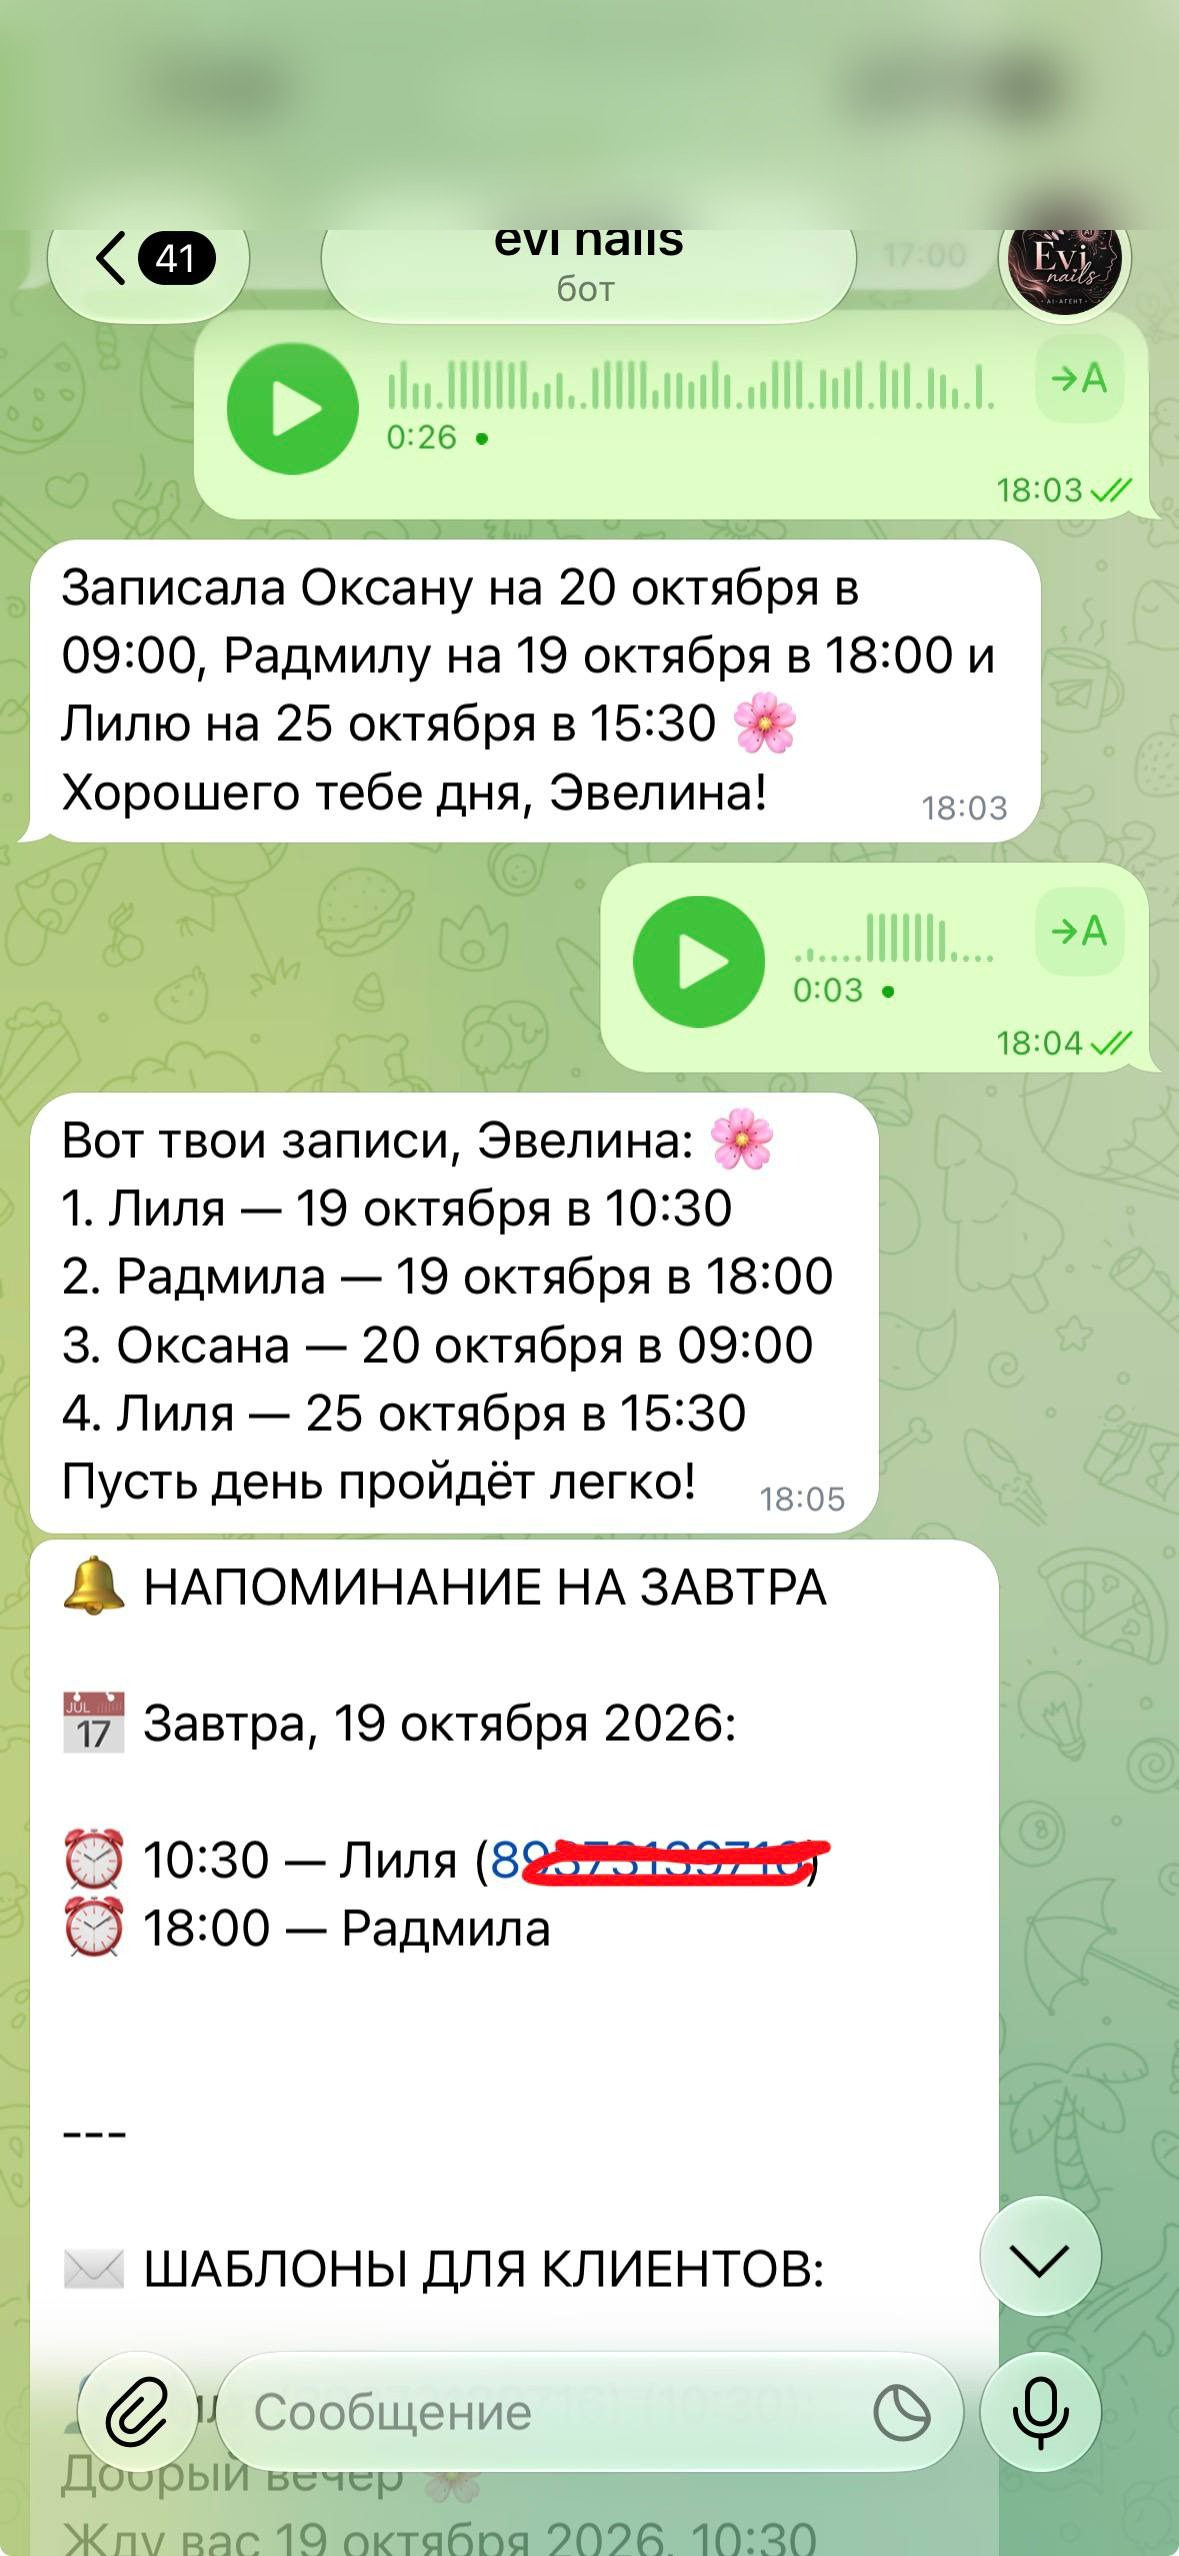
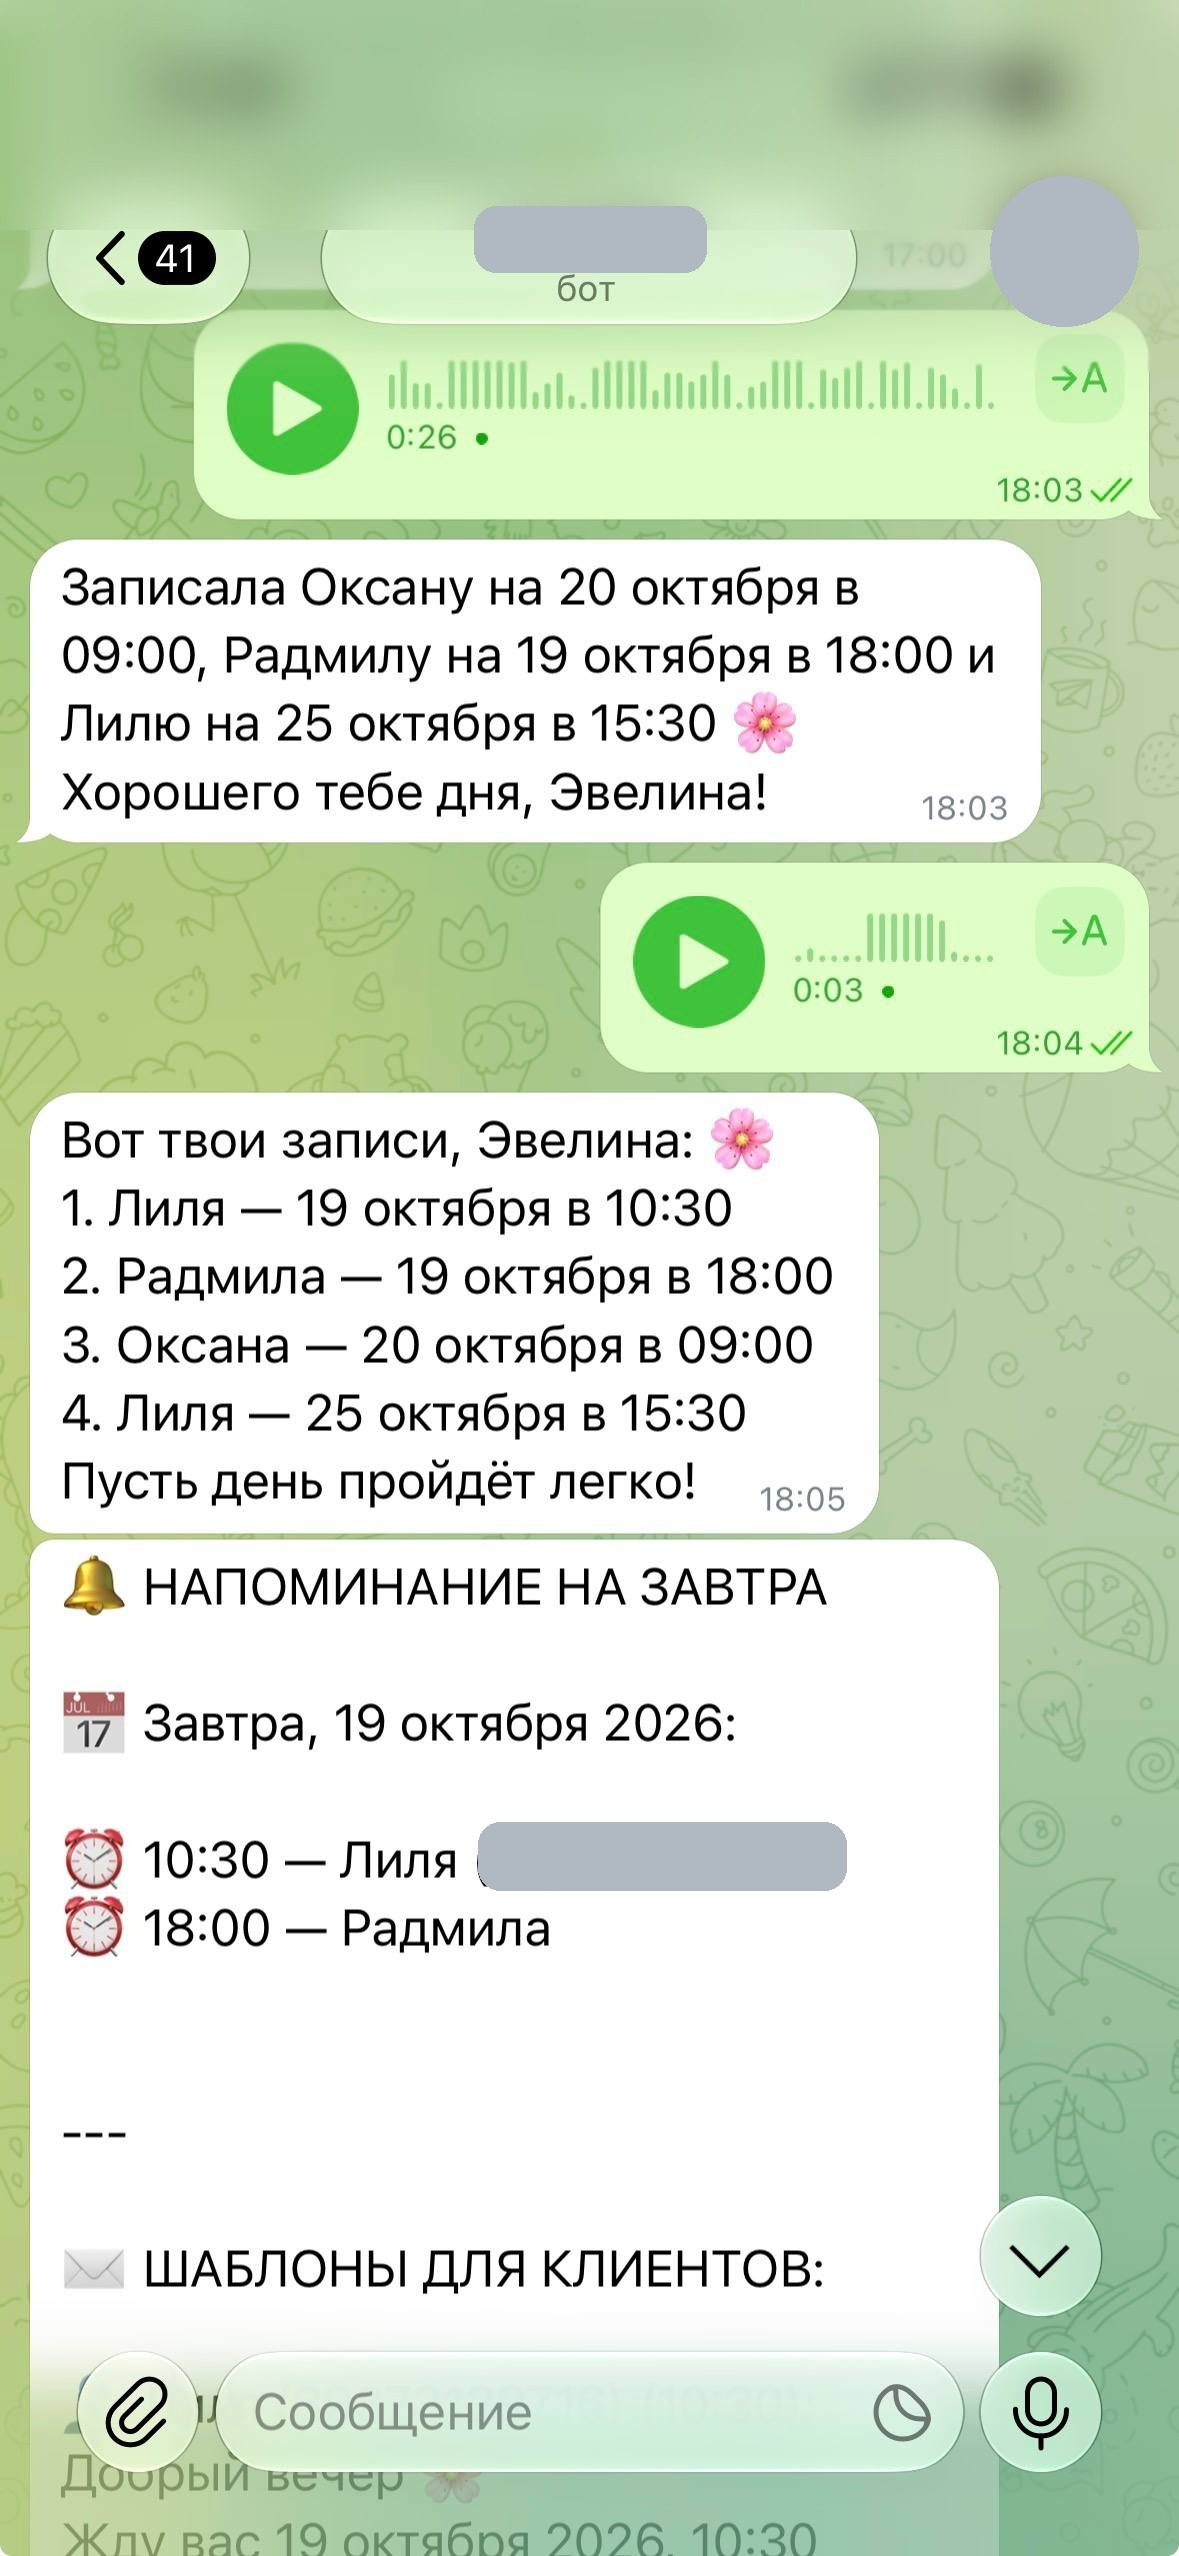
Обновление портфолио: дайджесты Langame, отзывы, рилсы, структура и README

Changed region(s): [[0.3969, 0.0618, 0.6107, 0.1236], [0.8244, 0.0618, 0.9771, 0.1545], [0.3969, 0.7109, 0.7328, 0.7418]]

diff --git a/README.md b/README.md
@@ -4,19 +4,21 @@
 
 > 🟢 **Открыт к проектам и удалённой работе.** Пишите: Telegram [@ai_bot102](https://t.me/ai_bot102) · khabirov111@gmail.com
 
+> 🇬🇧 *I build production-style AI agents and automations in n8n for small businesses: report digests from Excel, review monitoring, RAG assistants and voice assistants in Telegram. Russian-speaking, remote, UTC+5. Every project below is a working workflow with secrets replaced by placeholders.*
+
 Все проекты в этом репозитории собраны под реальные задачи (мой компьютерный клуб и заказчики), а не как учебные заготовки. В репозитории лежат воркфлоу для импорта, код расчётных нод, системные промпты и скриншоты результата.
 
 ---
 
 ## 🤝 Что я могу сделать для вас
 
-| Задача | Что получите | Примеры |
+| Задача | Что получите | Примеры из портфолио |
 |---|---|---|
-| **Автоматические отчёты** | Excel, CRM или таблица превращаются в готовый дайджест в Telegram с динамикой к прошлому периоду | [смены и недели](./langame-shift-week-digest/), [ежемесячный](./langame-monthly-digest/) |
-| **Мониторинг внешних данных** | Отзывы, конкуренты, цены собираются по расписанию в одно сообщение | [Яндекс Карты](./reviews-yandex/), [2ГИС](./reviews-2gis/) |
-| **ИИ-ассистент по вашей базе знаний** | Бот отвечает по регламентам и документам со ссылкой на пункт, не выдумывая | [RAG для администраторов](./rag-assistant/), [мультимодальный ассистент](./vik-assistant/) |
-| **Голосовой и текстовый секретарь** | Запись клиентов, задачи, финансы, напоминания голосом в Telegram | [маникюр](./nail-technician-assistant/), [фонд](./umar-fund-assistant/) |
-| **Контент по расписанию** | Идеи и сценарии без повторов, под сезон и повод | [генератор Reels](./reels-generator/) |
+| **Автоматические отчёты** | Excel, CRM или таблица превращаются в готовый дайджест в Telegram с динамикой к прошлому периоду | • [Сменный и недельный дайджест](./langame-shift-week-digest/)<br>• [Ежемесячный дайджест](./langame-monthly-digest/) |
+| **Мониторинг внешних данных** | Отзывы, конкуренты, цены собираются по расписанию в одно сообщение | • [Мониторинг отзывов Яндекс Карт](./reviews-yandex/)<br>• [Мониторинг отзывов 2ГИС](./reviews-2gis/) |
+| **ИИ-ассистент по вашей базе знаний** | Бот отвечает по регламентам и документам со ссылкой на пункт, не выдумывая | • [RAG-ассистент для администраторов](./rag-assistant/)<br>• [Ассистент инженера ВИК](./vik-assistant/) |
+| **Голосовой и текстовый секретарь** | Запись клиентов, задачи, финансы, напоминания голосом в Telegram | • [Ассистент мастера маникюра](./nail-technician-assistant/)<br>• [Ассистент руководителя благотворительного фонда](./umar-fund-assistant/) |
+| **Контент по расписанию** | Идеи и сценарии без повторов, под сезон и повод | • [Генератор идей для Reels](./reels-generator/) |
 
 Берусь за новые воркфлоу «под ключ», доработку и починку уже существующих, подключение ИИ к вашим процессам.
 
@@ -74,14 +76,14 @@ flowchart LR
 | # | Проект | Суть | Стек | Статус |
 |---|---|---|---|---|
 | 1 | [Дайджест смен и недель](./langame-shift-week-digest/) | Excel Langame → расчёт в коде → дайджест, ТОП админов, сравнение с прошлым периодом | n8n, Telegram, Google Sheets, JavaScript | ✅ в работе |
-| 2 | [Ежемесячный дайджест](./langame-monthly-digest/) | Посуточный отчёт → аналитика, рейтинг напитков, «что изменилось» к прошлому месяцу | n8n, Telegram, Google Sheets, JavaScript | ✅ в работе |
-| 3 | [Отзывы Яндекс Карт](./reviews-yandex/) | Еженедельный мониторинг по 6 клубам, защита от капчи и сбоев | n8n, HTTP, парсинг HTML, DeepSeek, Telegram | ✅ в работе |
-| 4 | [Отзывы 2ГИС](./reviews-2gis/) | Сбор через Apify по всем клубам, дайджест за неделю | n8n, Apify API, DeepSeek, Telegram | ✅ в работе |
-| 5 | [Генератор идей для Reels](./reels-generator/) | Идеи для коротких видео каждые 12 часов, без повторов | n8n, DeepSeek, Telegram | ✅ в работе |
-| 6 | [RAG-ассистент для администраторов](./rag-assistant/) | Ответы по регламенту со ссылкой на пункт, эскалация руководителю | n8n, Qdrant, Embeddings, Telegram | ✅ в работе |
-| 7 | [Ассистент инженера ВИК](./vik-assistant/) | Мультимодальный (текст, фото, голос) строгий RAG по нормативу | n8n, Qdrant, Vision, Whisper | ✅ в работе |
-| 8 | [Ассистент мастера маникюра](./nail-technician-assistant/) | Запись клиентов голосом и текстом, расписание, напоминания | n8n, Whisper, Google Sheets | ✅ в работе |
-| 9 | [Ассистент руководителя фонда](./umar-fund-assistant/) | Учёт финансов и задач голосом и текстом, голосовые ответы (TTS) | n8n, Whisper, TTS, Google Sheets | ✅ в работе |
+| 2 | [Ежемесячный дайджест](./langame-monthly-digest/) | Посуточный отчёт → аналитика, рейтинг напитков, «что изменилось» к прошлому месяцу | n8n, Telegram, Google Sheets, JavaScript | 🧪 готов к запуску |
+| 3 | [Отзывы Яндекс Карт](./reviews-yandex/) | Еженедельный мониторинг по 6 клубам, защита от капчи и сбоев | n8n, HTTP, парсинг HTML, DeepSeek, Telegram | 🔄 обновлён (v2) |
+| 4 | [Отзывы 2ГИС](./reviews-2gis/) | Сбор через Apify по всем клубам, дайджест за неделю | n8n, Apify API, DeepSeek, Telegram | 🔄 обновлён (v2) |
+| 5 | [Генератор идей для Reels](./reels-generator/) | Идеи для коротких видео каждые 12 часов, без повторов | n8n, DeepSeek, Telegram | 🔄 обновлён (v2) |
+| 6 | [RAG-ассистент для администраторов](./rag-assistant/) | Ответы по регламенту со ссылкой на пункт, эскалация руководителю | n8n, Qdrant, Embeddings, Telegram | ✅ |
+| 7 | [Ассистент инженера ВИК](./vik-assistant/) | Мультимодальный (текст, фото, голос) строгий RAG по нормативу | n8n, Qdrant, Vision, Whisper | ✅ |
+| 8 | [Ассистент мастера маникюра](./nail-technician-assistant/) | Запись клиентов голосом и текстом, расписание, напоминания | n8n, Whisper, Google Sheets | ✅ |
+| 9 | [Ассистент руководителя благотворительного фонда](./umar-fund-assistant/) | Учёт финансов и задач голосом и текстом, голосовые ответы (TTS) | n8n, Whisper, TTS, Google Sheets | ✅ |
 
 ---
 
@@ -109,7 +111,8 @@ flowchart LR
 ---
 
 ## 🎓 Образование и опыт
-- Яндекс Практикум: ИИ-агенты и автоматизация
+- Высшее образование: «Нефтегазовое дело»
+- Яндекс Практикум: «ИИ-агенты и автоматизация» (курс пройден)
 - Опыт в нефтегазовой отрасли (супервайзер-технолог по ремонту скважин), владелец компьютерного клуба: бизнес-процессы знаю изнутри и ставлю задачи как заказчик
 
 ## 📬 Контакты

diff --git a/nail-technician-assistant/README.md b/nail-technician-assistant/README.md
@@ -22,7 +22,7 @@
 - **Триггер:** ежедневно в 15:00 МСК (17:00 по Уфе).
 - **Логика:** находит записи на "завтра" по часовому поясу Уфе.
 - **Формат:** формирует список клиентов + **готовые шаблоны сообщений** для каждого.
-- **Выход:** отправляет сводку Эвелине в Telegram.
+- **Выход:** отправляет сводку мастеру в Telegram.
 
 ## 🔧 Стек
 - **n8n:** оркестрация, Code nodes, Switch, Merge.
